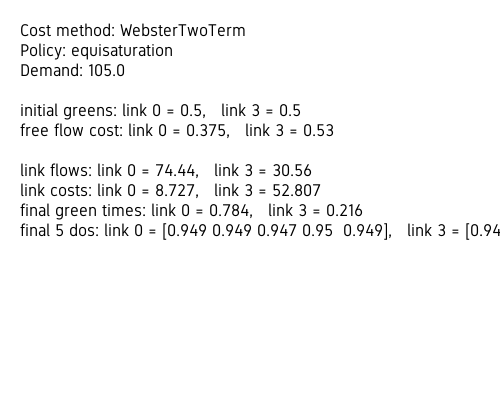
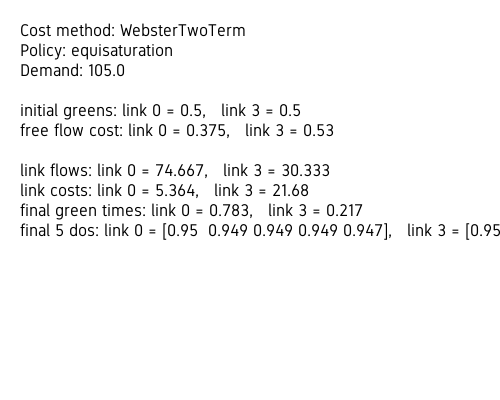
minor changes

diff --git a/ownCode/main.py b/ownCode/main.py
@@ -9,7 +9,6 @@ from network_summary import create_summary
 from ownFunctions import makeOwnToyNetwork, getODGraph
 from dyntapy_green_time_change import GreenStaticAssignment
 from greenTimes import get_green_times
-from bokeh.embed import file_html
 from bokeh.resources import CDN
 from bokeh.io import export_png
 
@@ -124,7 +123,7 @@ def main():
         summary_string += "link flows: link 0 = {},   link 3 = {}\n".format(round(result.flows[0],3), round(result.flows[3],3))
         summary_string += "link costs: link 0 = {},   link 3 = {}\n".format(round(cost_link_a[-1],3), round(cost_link_b[-1],3))
         summary_string += "final green times: link 0 = {},   link 3 = {}\n".format(round(greens[0],3), round(greens[3],3))
-        summary_string += "final 5 dos: link 0 = {},   link 3 = {}\n".format(np.round(dos_link_a[-5:],3), np.round(dos_link_a[-5:],3))
+        summary_string += "final 5 dos: link 0 = {}\nfinal 5 dos:   link 3 = {}\n".format(np.round(dos_link_a[-5:],3), np.round(dos_link_a[-5:],3))
         if theoreticalGreenTime != []: 
             summary_string += "final Theoretical green times: link 0 = {},   link 3 = {}\n".format(round(theoreticalGreenTime[0],3), round(theoreticalGreenTime[1],3))
         

diff --git a/ownCode/cost_functions.py b/ownCode/cost_functions.py
@@ -51,7 +51,9 @@ def __webster_two_term_green_single(flow, capacity, ff_tt, g_time):
     elif dos <= 0.1:
         cost = ff_tt
     else:
-        term1 = (capacity*(1-g_time)**2)/(1-g_time*dos)
+        #assumption
+        cycle_time = 60
+        term1 = (cycle_time*(1-g_time)**2)/(1-g_time*dos)
         term2 = (dos**2)/(capacity*g_time*dos*(1-dos))
         cost = ff_tt + (9/20)*(term1+term2)
     return cost
